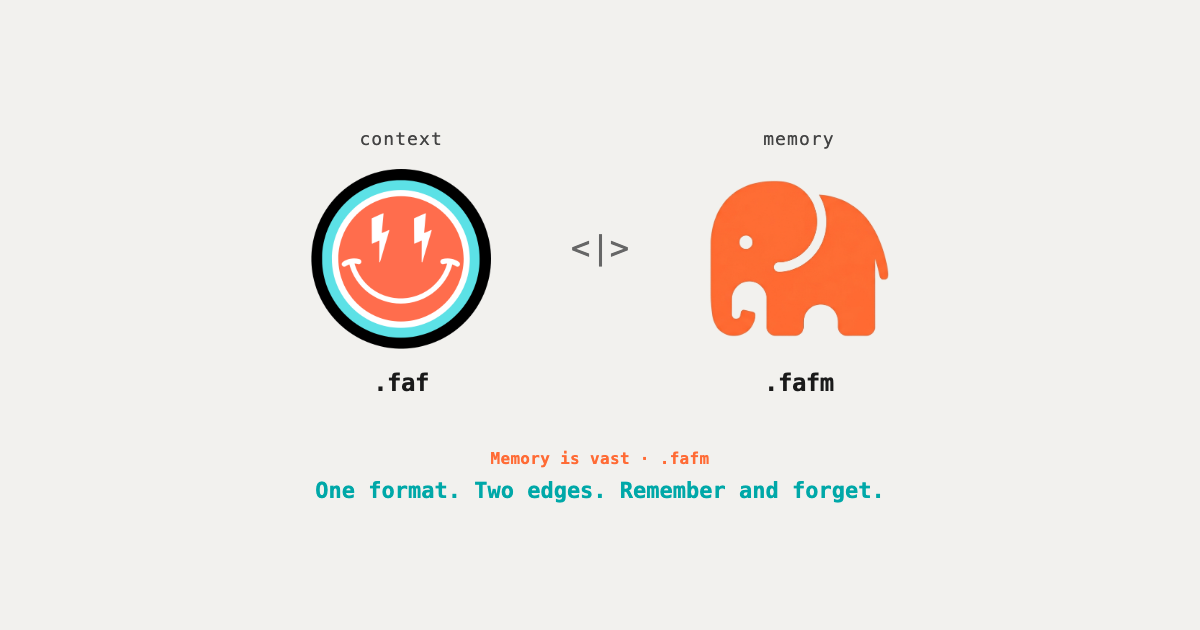
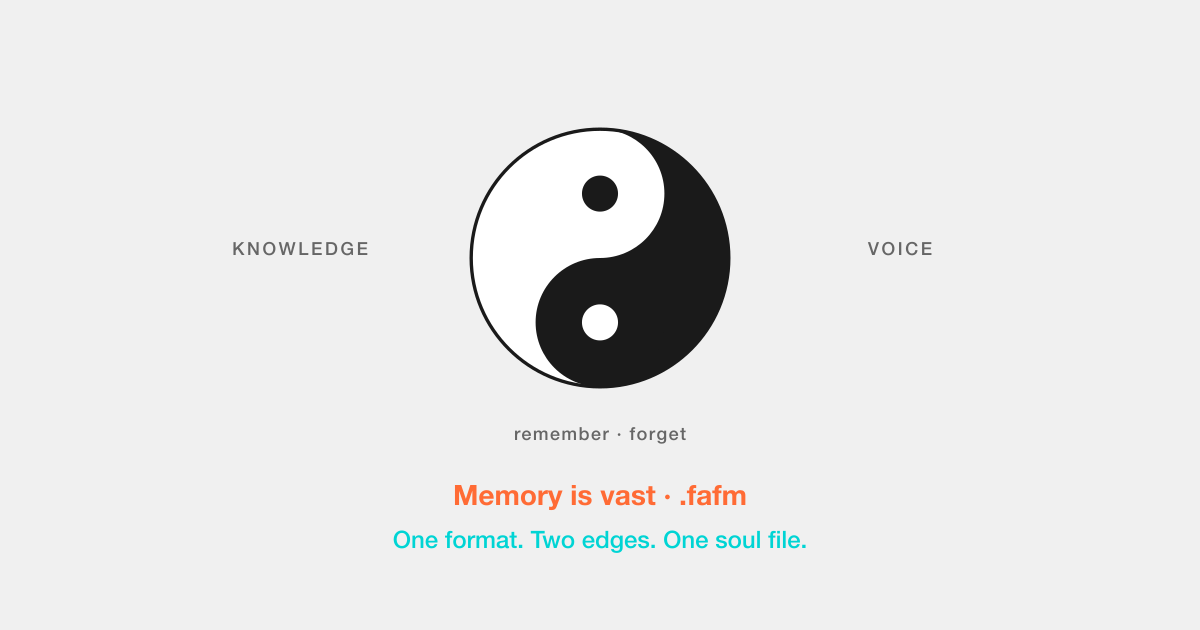
blog: Memory is vast hero — yin-yang dual, no DotFaf
Replace context|.faf pair card with geometric yin-yang (knowledge|voice,
remember·forget). Archive old pair. Bump hero ?v=2 for cache bust.

diff --git a/src/routes/blog/memory-is-vast/+page.svelte b/src/routes/blog/memory-is-vast/+page.svelte
@@ -30,14 +30,14 @@ One format. Two edges. Things we need to remember — and things we need to forg
 	<meta property="og:type" content="article" />
 	<meta property="og:url" content="https://faf.one/blog/memory-is-vast" />
 	<meta property="og:site_name" content=".faf Format Authority" />
-	<meta property="og:image" content="https://faf.one/blog/memory-is-vast-hero.png" />
-	<meta property="og:image:secure_url" content="https://faf.one/blog/memory-is-vast-hero.png" />
+	<meta property="og:image" content="https://faf.one/blog/memory-is-vast-hero.png?v=2" />
+	<meta property="og:image:secure_url" content="https://faf.one/blog/memory-is-vast-hero.png?v=2" />
 	<meta property="og:image:type" content="image/png" />
 	<meta property="og:image:width" content="1200" />
 	<meta property="og:image:height" content="630" />
 	<meta
 		property="og:image:alt"
-		content="Memory is vast — .fafm · one format, two edges · knowledge + voice"
+		content="Memory is vast — yin-yang of knowledge and voice · remember and forget · .fafm"
 	/>
 	<meta name="twitter:card" content="summary_large_image" />
 	<meta name="twitter:site" content="@fafformat" />
@@ -47,7 +47,7 @@ One format. Two edges. Things we need to remember — and things we need to forg
 		name="twitter:description"
 		content="Remember and forget. Knowledge and voice. One format for the AI era."
 	/>
-	<meta name="twitter:image" content="https://faf.one/blog/memory-is-vast-hero.png" />
+	<meta name="twitter:image" content="https://faf.one/blog/memory-is-vast-hero.png?v=2" />
 </svelte:head>
 
 <div class="blog-post">
@@ -69,8 +69,8 @@ One format. Two edges. Things we need to remember — and things we need to forg
 
 	<div class="hero-image">
 		<img
-			src="/blog/memory-is-vast-hero.png"
-			alt="Memory is vast — .fafm · one format, two edges · knowledge and voice"
+			src="/blog/memory-is-vast-hero.png?v=2"
+			alt="Memory is vast — yin-yang dual · knowledge and voice · remember and forget · .fafm"
 			width="1200"
 			height="630"
 			loading="eager"
